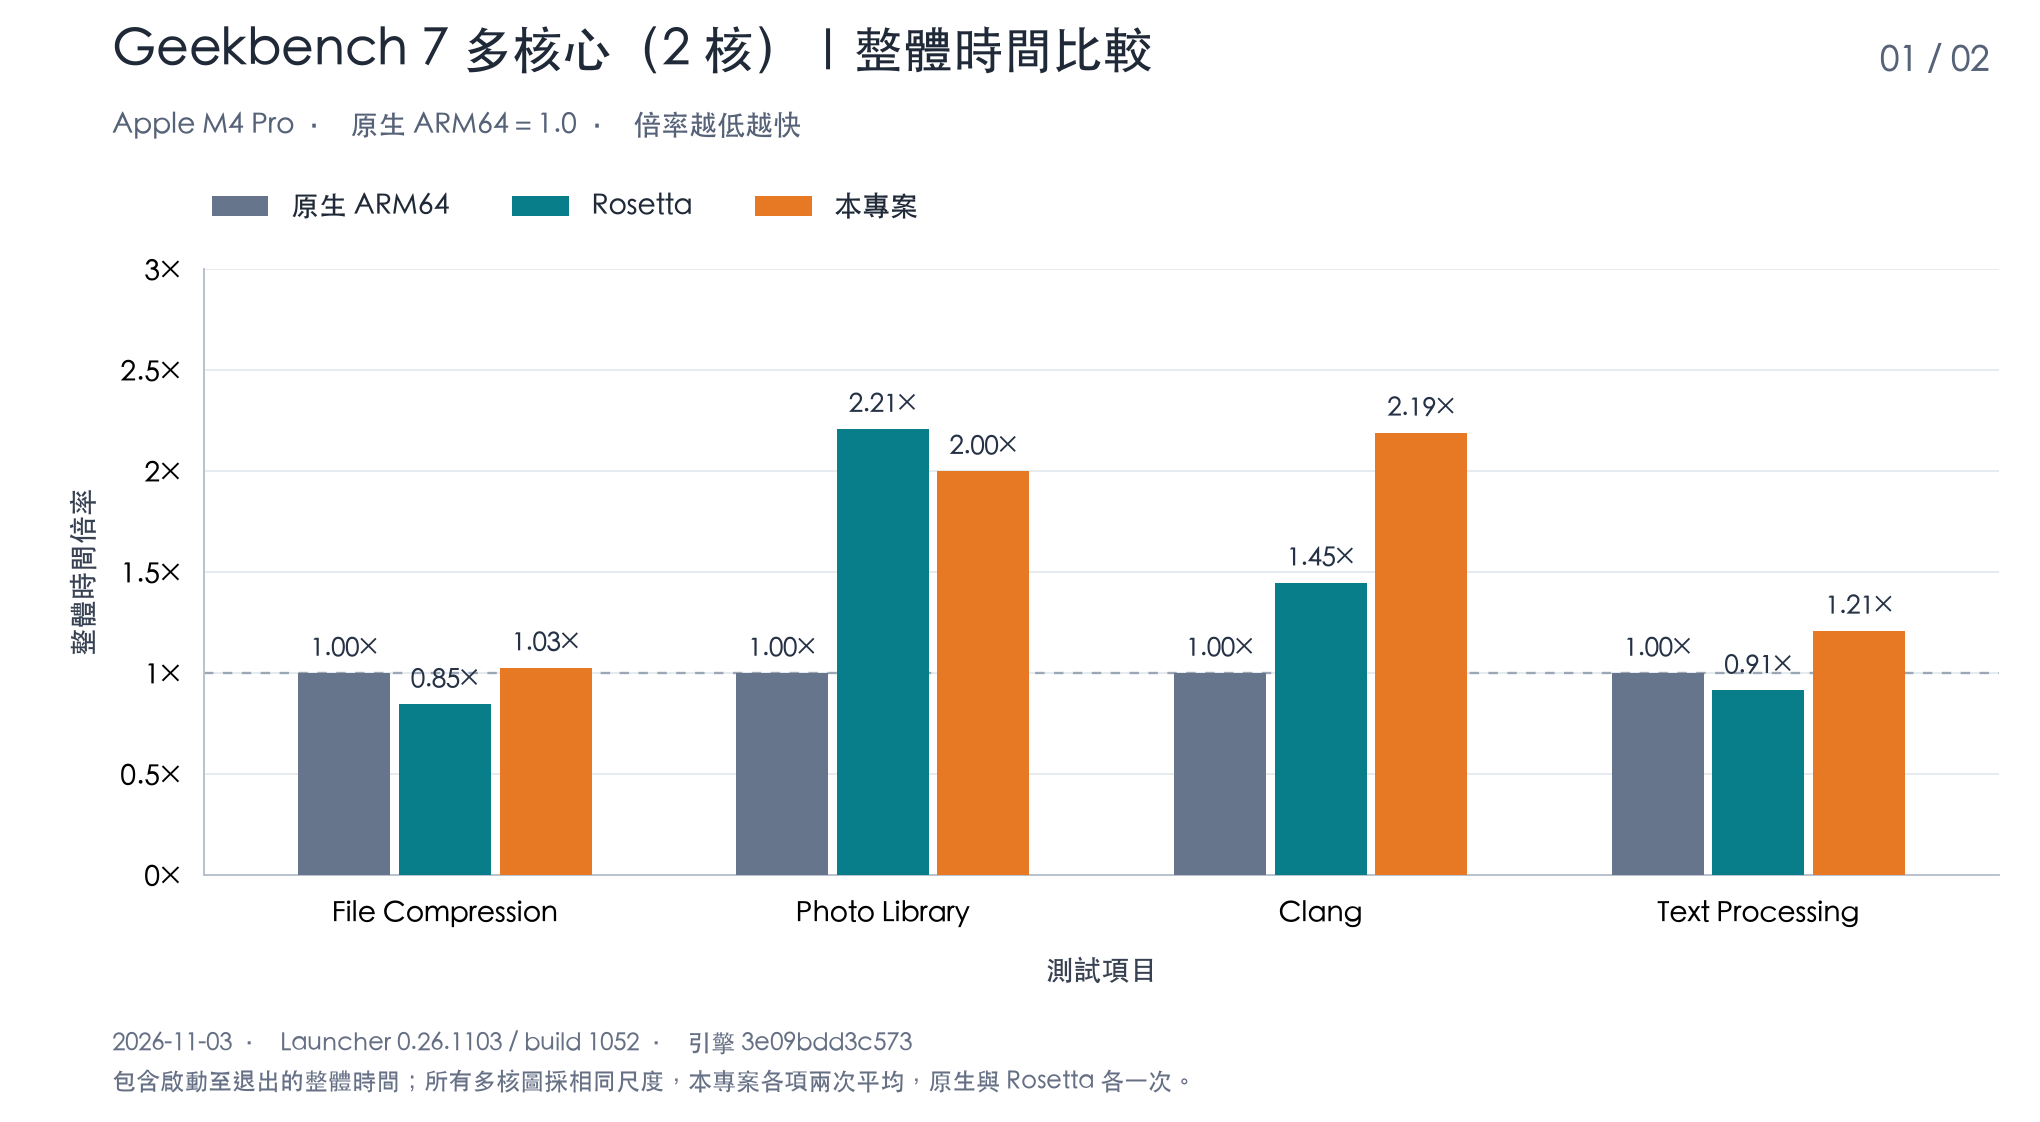
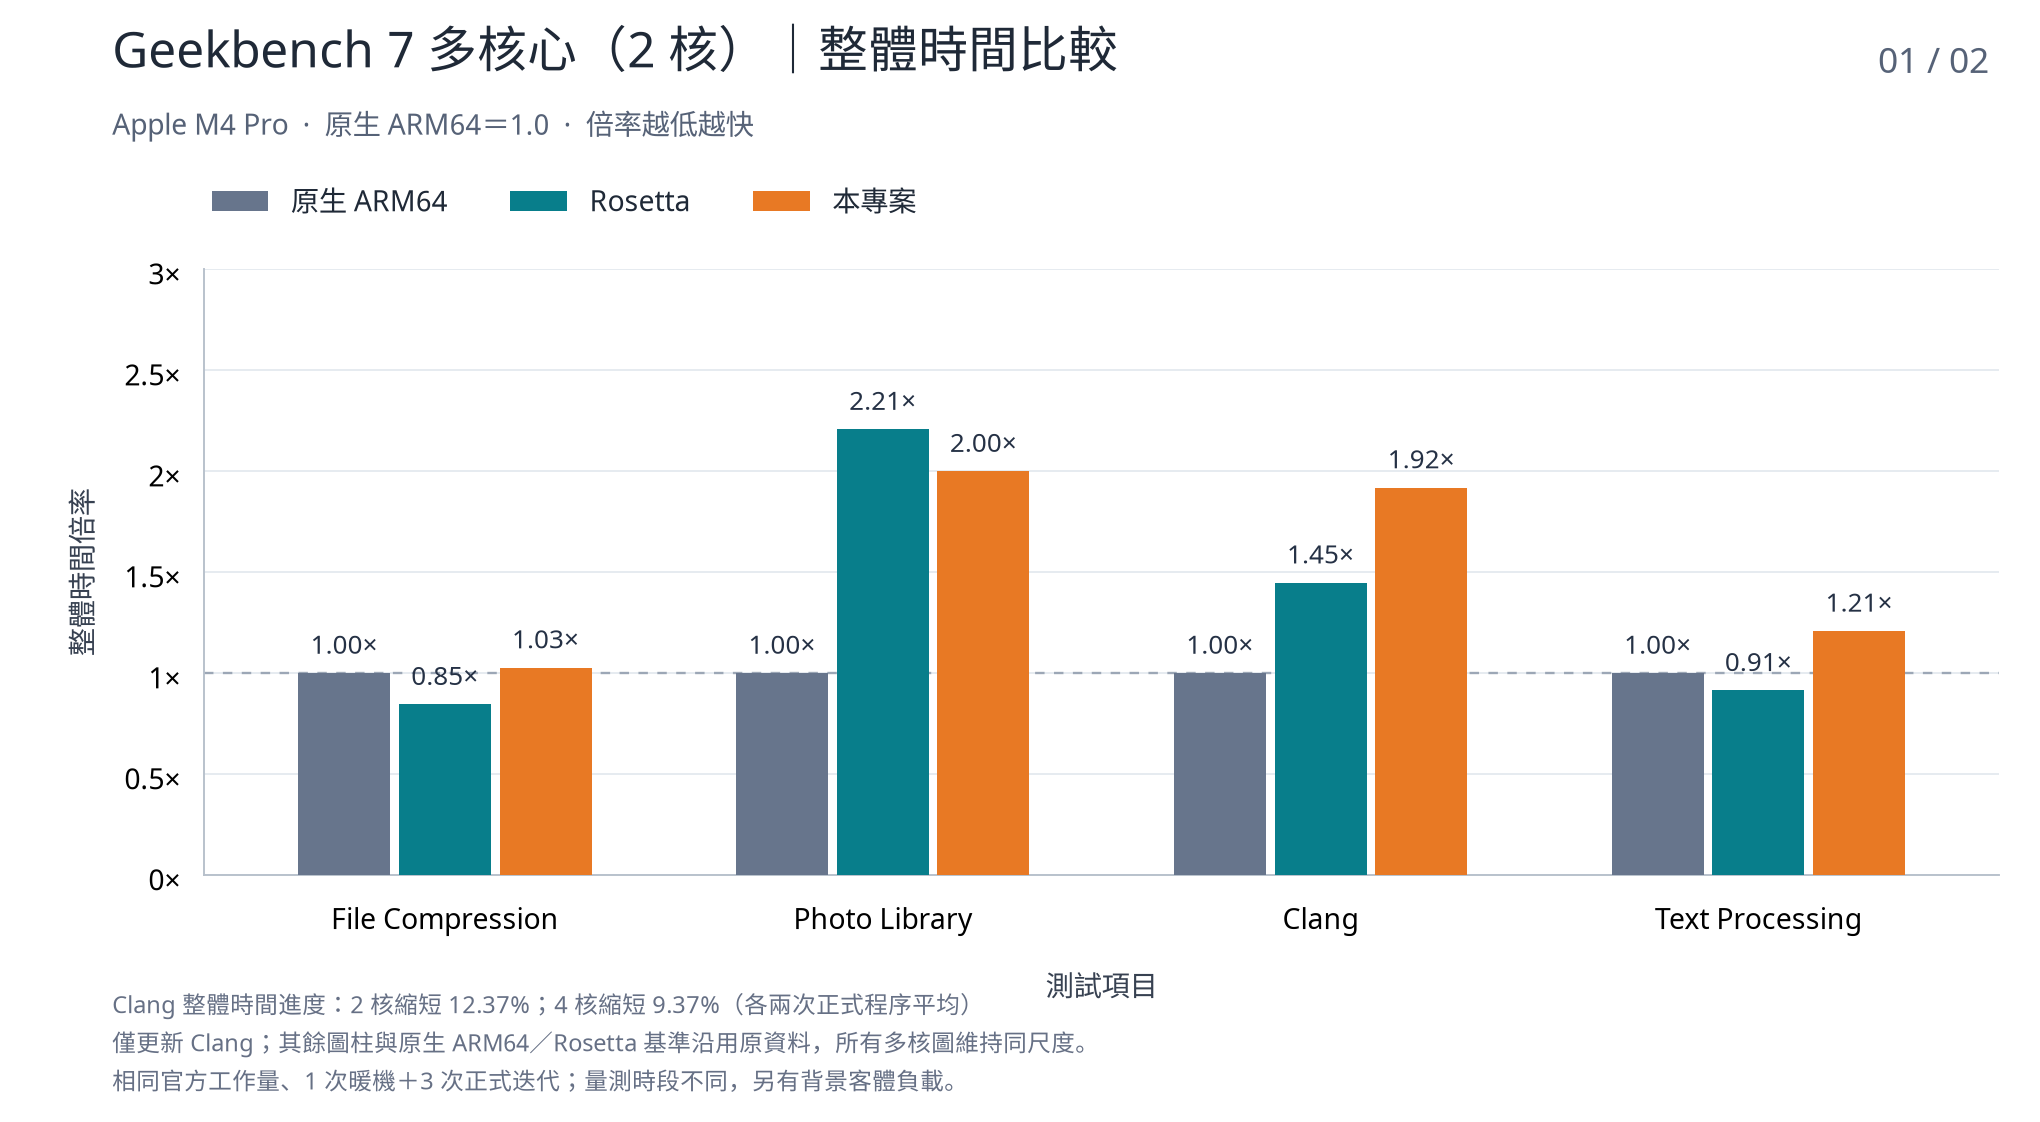
README：加入 Geekbench 7 Clang 單核與多核進度並更新圖表

diff --git a/README.en.md b/README.en.md
@@ -22,6 +22,8 @@ AppleJuice runs the Windows x86_64 version, Rosetta runs the macOS x86_64 versio
 
 Before starting the tests, the native ARM64 version spends about 4.6 seconds collecting system information, versus about 1.6 seconds for Rosetta. As a result, Rosetta's total elapsed time is shorter than native for some workloads, while the measured compute time is fastest natively for every workload.
 
+**Clang progress update:** AppleJuice's total elapsed time dropped from **17.96 s to 12.83 s, 28.56% shorter**, and its ratio to native went from **1.55× to 1.11×**. This figure is the mean of four valid measured runs of the build adopted so far; only the AppleJuice Clang bar was updated, and the native/Rosetta baselines and other workloads keep their original data.
+
 ![Total elapsed time ratio: File Compression, Navigation, HTML5 Browser, PDF Viewer](docs/images/geekbench7-single-core-2026-11-02/chart-1.png)
 
 ![Total elapsed time ratio: Photo Library, Clang, Text Processing, Asset Compression](docs/images/geekbench7-single-core-2026-11-02/chart-2.png)
@@ -39,6 +41,8 @@ The method matches the single-core charts: **each workload's native ARM64 total 
 AppleJuice values are the arithmetic mean of two runs per workload; native ARM64 and Rosetta used one run each. Each of the three ran one warm-up before measurement, which is not counted. Other programs were running on the host during measurement; results where host load rose sharply during a run because of other work were excluded and measured again. The charts show measured results without claiming statistical significance.
 
 As in the single-core results, the native ARM64 version spends longer collecting system information, so Rosetta's total elapsed time is shorter than native for File Compression, Text Processing and HDR, while the measured compute time is fastest natively for every workload.
+
+**Clang progress update:** Re-measured with the same adopted build as the single-core progress chart, the 2-core total elapsed time dropped from **90.54 s to 79.34 s, 12.37% shorter**, and the 4-core time from **55.33 s to 50.15 s, 9.37% shorter**. The ratios to native went from **2.19× to 1.92×** and from **2.12× to 1.92×** respectively. For each core count, one warm-up process ran first, followed by the mean of two valid measured processes; each process ran one warm-up and three measured iterations with 8 GiB of guest memory. Only the AppleJuice Clang bars were updated; the other workloads and the native/Rosetta baselines keep their original data. The old and new measurements were taken at different times and the new runs included background guest load; no builds or separate probes were detected interfering, and no claim of statistical significance is made.
 
 ![2-core total elapsed time ratio: File Compression, Photo Library, Clang, Text Processing](docs/images/geekbench7-multi-core-2026-11-03/2-core/chart-1.png)
 
